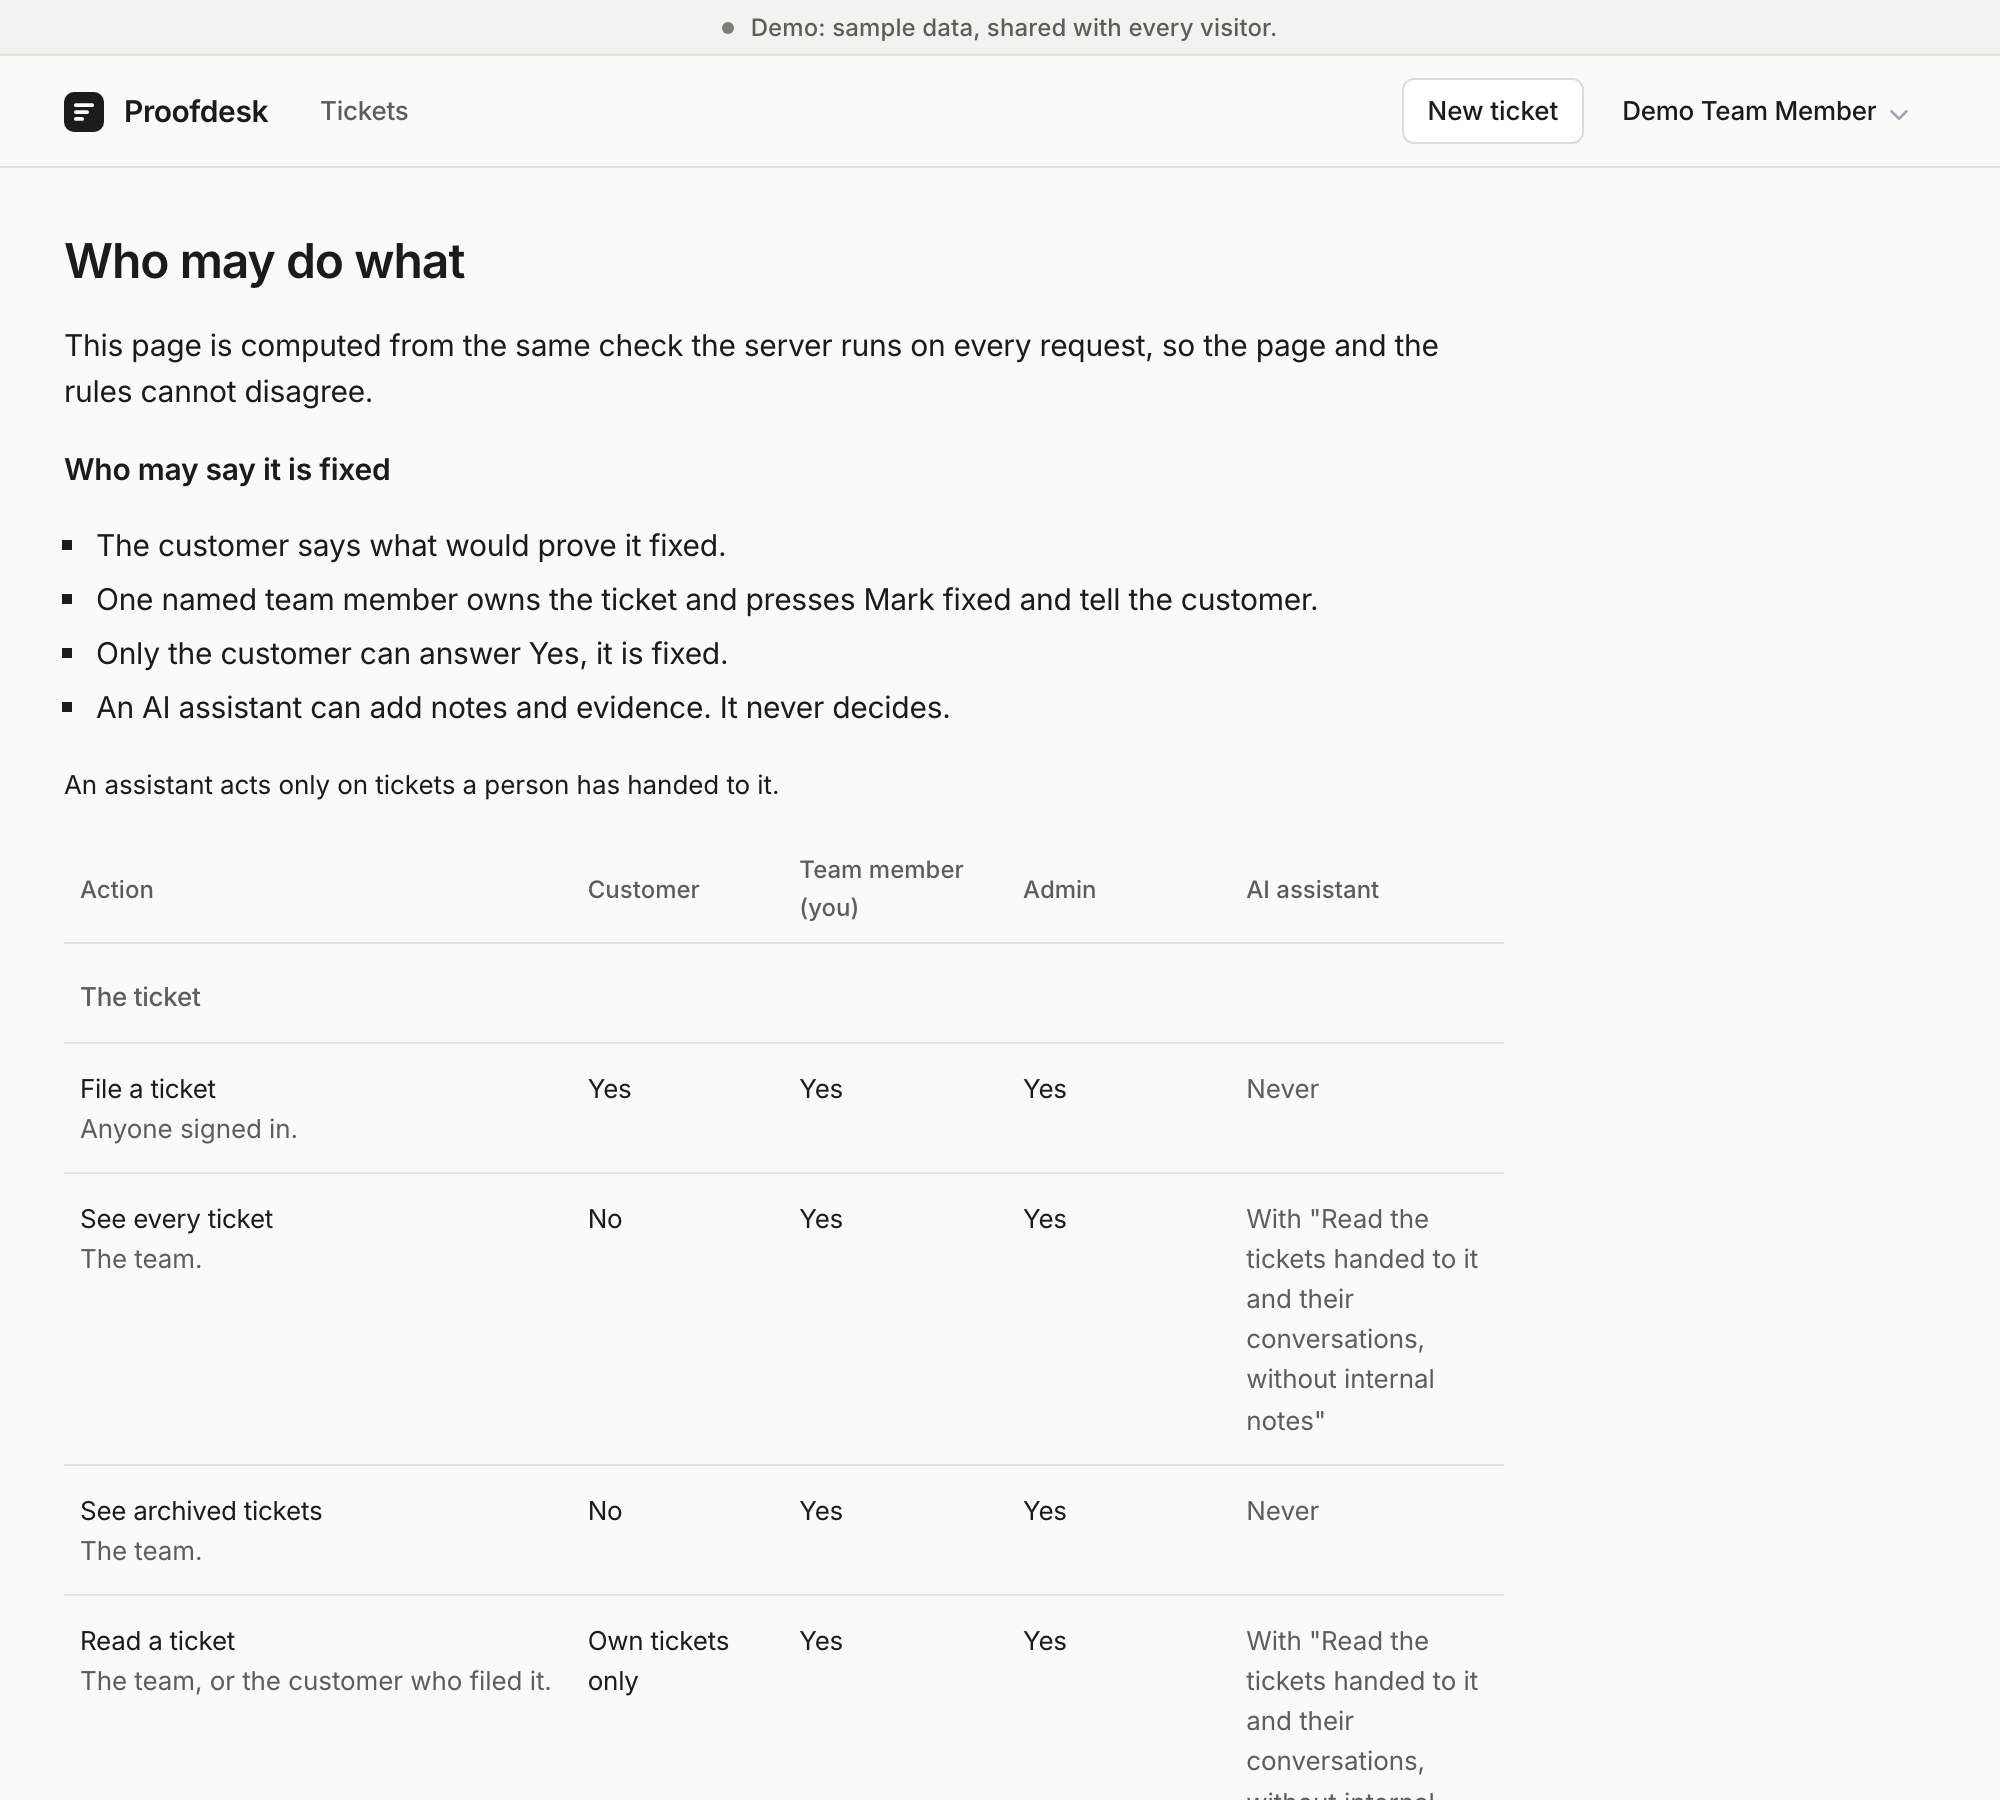
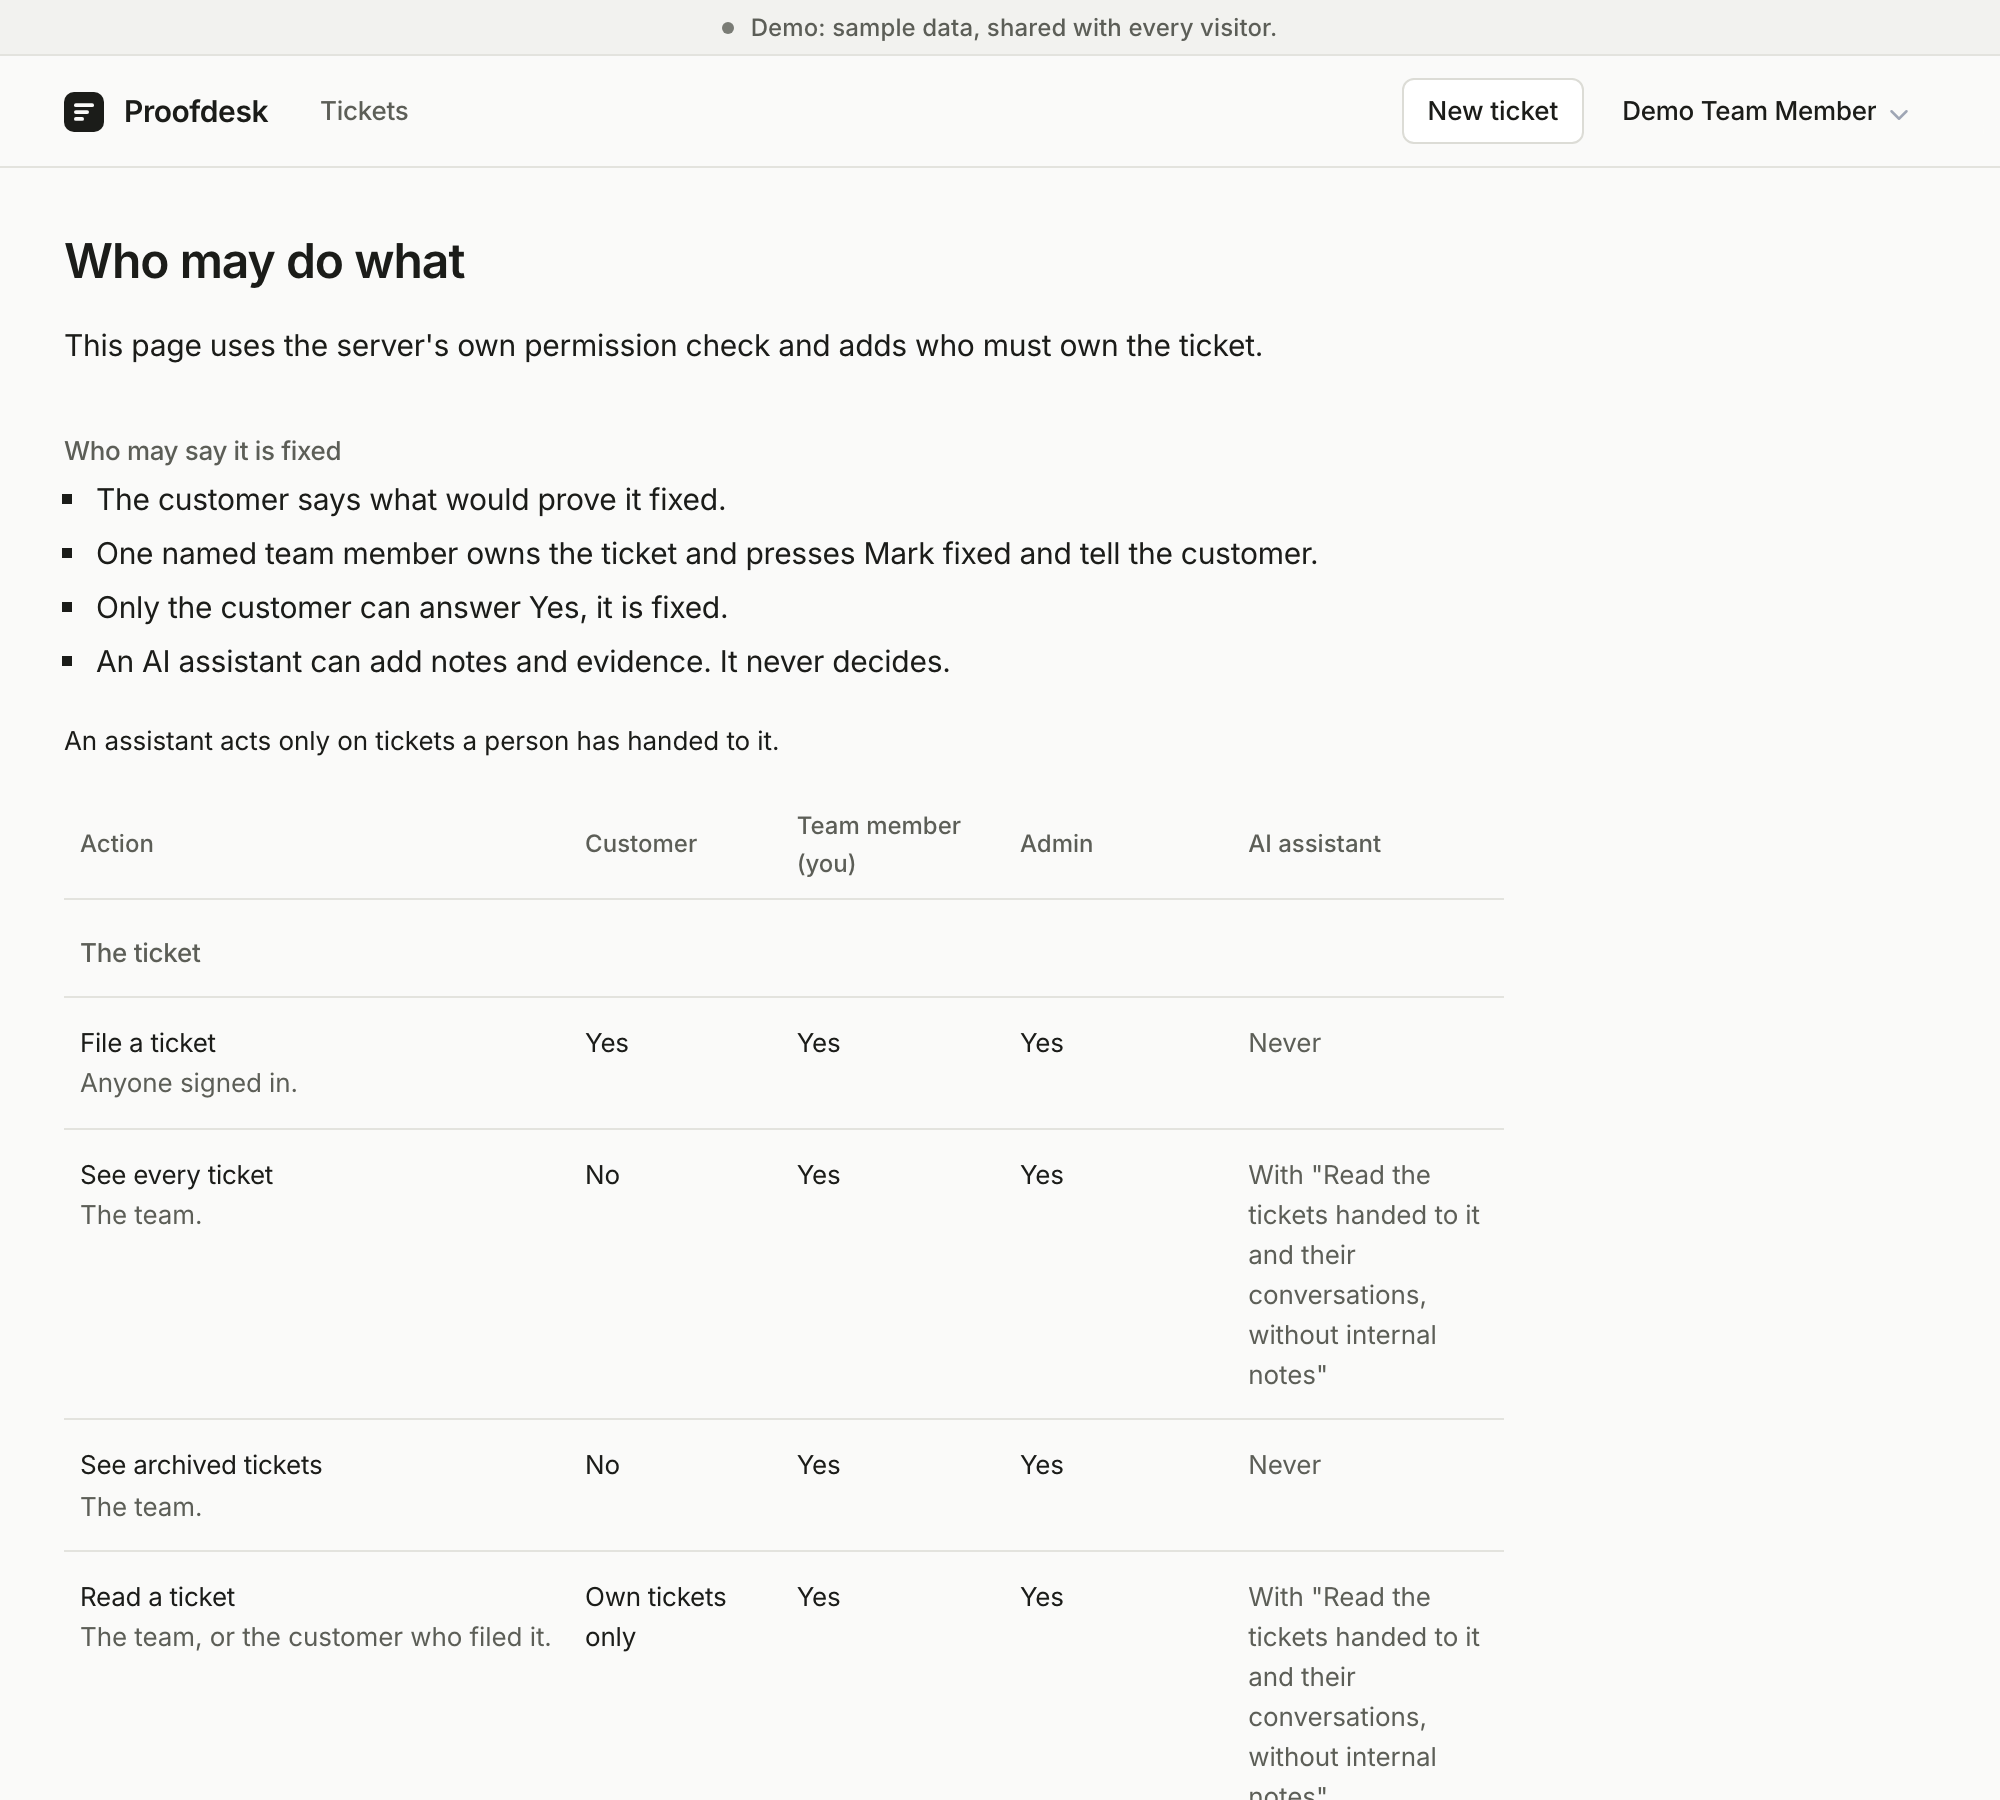
Quote the roles page's new first line and retake its picture
The page Who may do what now says it uses the server's own permission check
and adds who must own the ticket. The tour quotes that line, its picture is
retaken from a fresh local demo as Demo Team Member, and the docs test ties
the tour's quote to the page.

diff --git a/tests/docs/docs-roles.test.ts b/tests/docs/docs-roles.test.ts
@@ -51,6 +51,11 @@ describe("roles, in the tour and the specification", () => {
     const tour = flat("docs/TOUR.md");
     const roles = section(tour, "**Who may do what**");
     expect(roles).toContain("Team member (you)");
+    // The tour quotes the page's first line as the page has it.
+    const line =
+      "This page uses the server's own permission check and adds who must own the ticket.";
+    expect(roles).toContain(line);
+    expect(flat("views/roles.ejs")).toContain(line);
     expect(roles).toContain('src="img/who-may-do-what.png"');
     expect(fs.existsSync("docs/img/who-may-do-what.png")).toBe(true);
     const check = section(tour, "**Check a role change first**");

diff --git a/docs/TOUR.md b/docs/TOUR.md
@@ -77,9 +77,9 @@ Each one takes under a minute on the demo, which opens on the ticket list as the
 
 - Start as: Any demo page
 - Press: The menu at the top right, then **Who may do what** at its foot; then switch to **Demo Team Member** in the same menu
-- You should see: a first line saying the table comes from the server's own permission check. Under four lines on who may say a ticket is fixed, one table: each action with its rule in small words, and a column each for Customer, Team member, Admin and AI assistant, grouped as The ticket, Proving it is fixed, Working it, and People and connections. Your column is marked, such as "Team member (you)", and the mark moves when you switch; the demo admin's reads "Admin (you, read-only on this demo)". Anyone can open the page at `/roles`, signed in or not, and People, Account and About this demo link it.
+- You should see: "This page uses the server's own permission check and adds who must own the ticket." Under four lines on who may say a ticket is fixed, one table: each action with its rule in small words, and a column each for Customer, Team member, Admin and AI assistant, grouped as The ticket, Proving it is fixed, Working it, and People and connections. Your column is marked, such as "Team member (you)", and the mark moves when you switch; the demo admin's reads "Admin (you, read-only on this demo)". Anyone can open the page at `/roles`, signed in or not, and People, Account and About this demo link it.
 
-<img src="img/who-may-do-what.png" width="720" alt="The page Who may do what, as Demo Team Member: its heading, the line saying it is computed from the same check the server runs on every request, four lines under &quot;Who may say it is fixed&quot;, then the table's columns Action, Customer, &quot;Team member (you)&quot;, Admin and AI assistant, and the first rows of The ticket: File a ticket, See every ticket, See archived tickets and Read a ticket, each with Yes, No, Own tickets only, Never or the scope an assistant needs">
+<img src="img/who-may-do-what.png" width="720" alt="The page Who may do what, as Demo Team Member: its heading, the line saying it uses the server's own permission check and adds who must own the ticket, four lines under &quot;Who may say it is fixed&quot;, then the table's columns Action, Customer, &quot;Team member (you)&quot;, Admin and AI assistant, and the first rows of The ticket: File a ticket, See every ticket, See archived tickets and Read a ticket, each with Yes, No, Own tickets only, Never or the scope an assistant needs">
 
 **Check a role change first**
 
